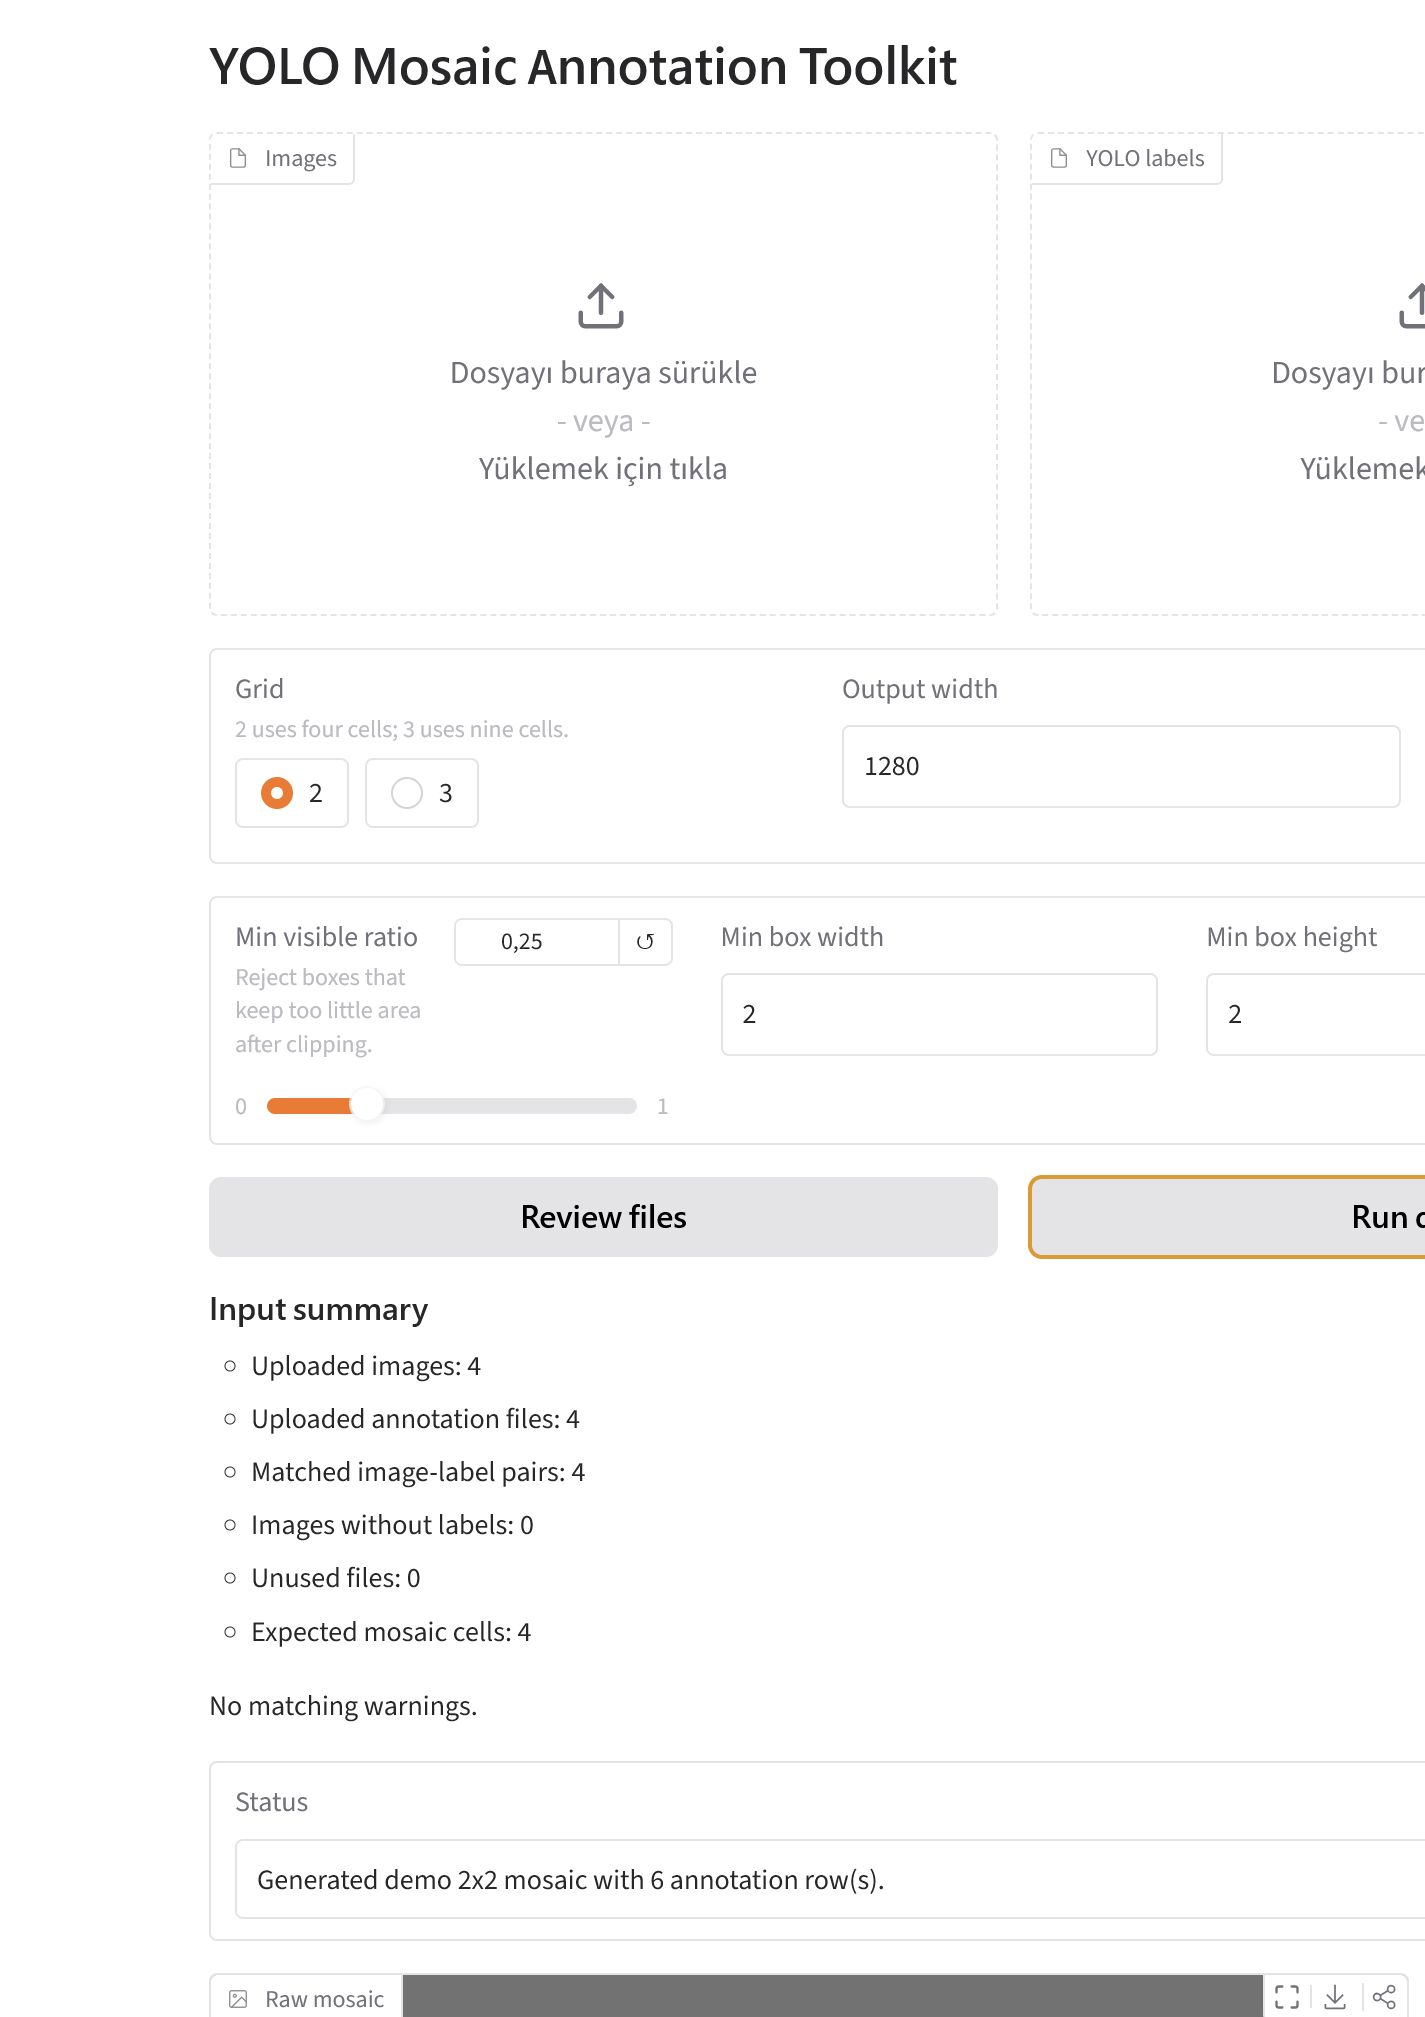
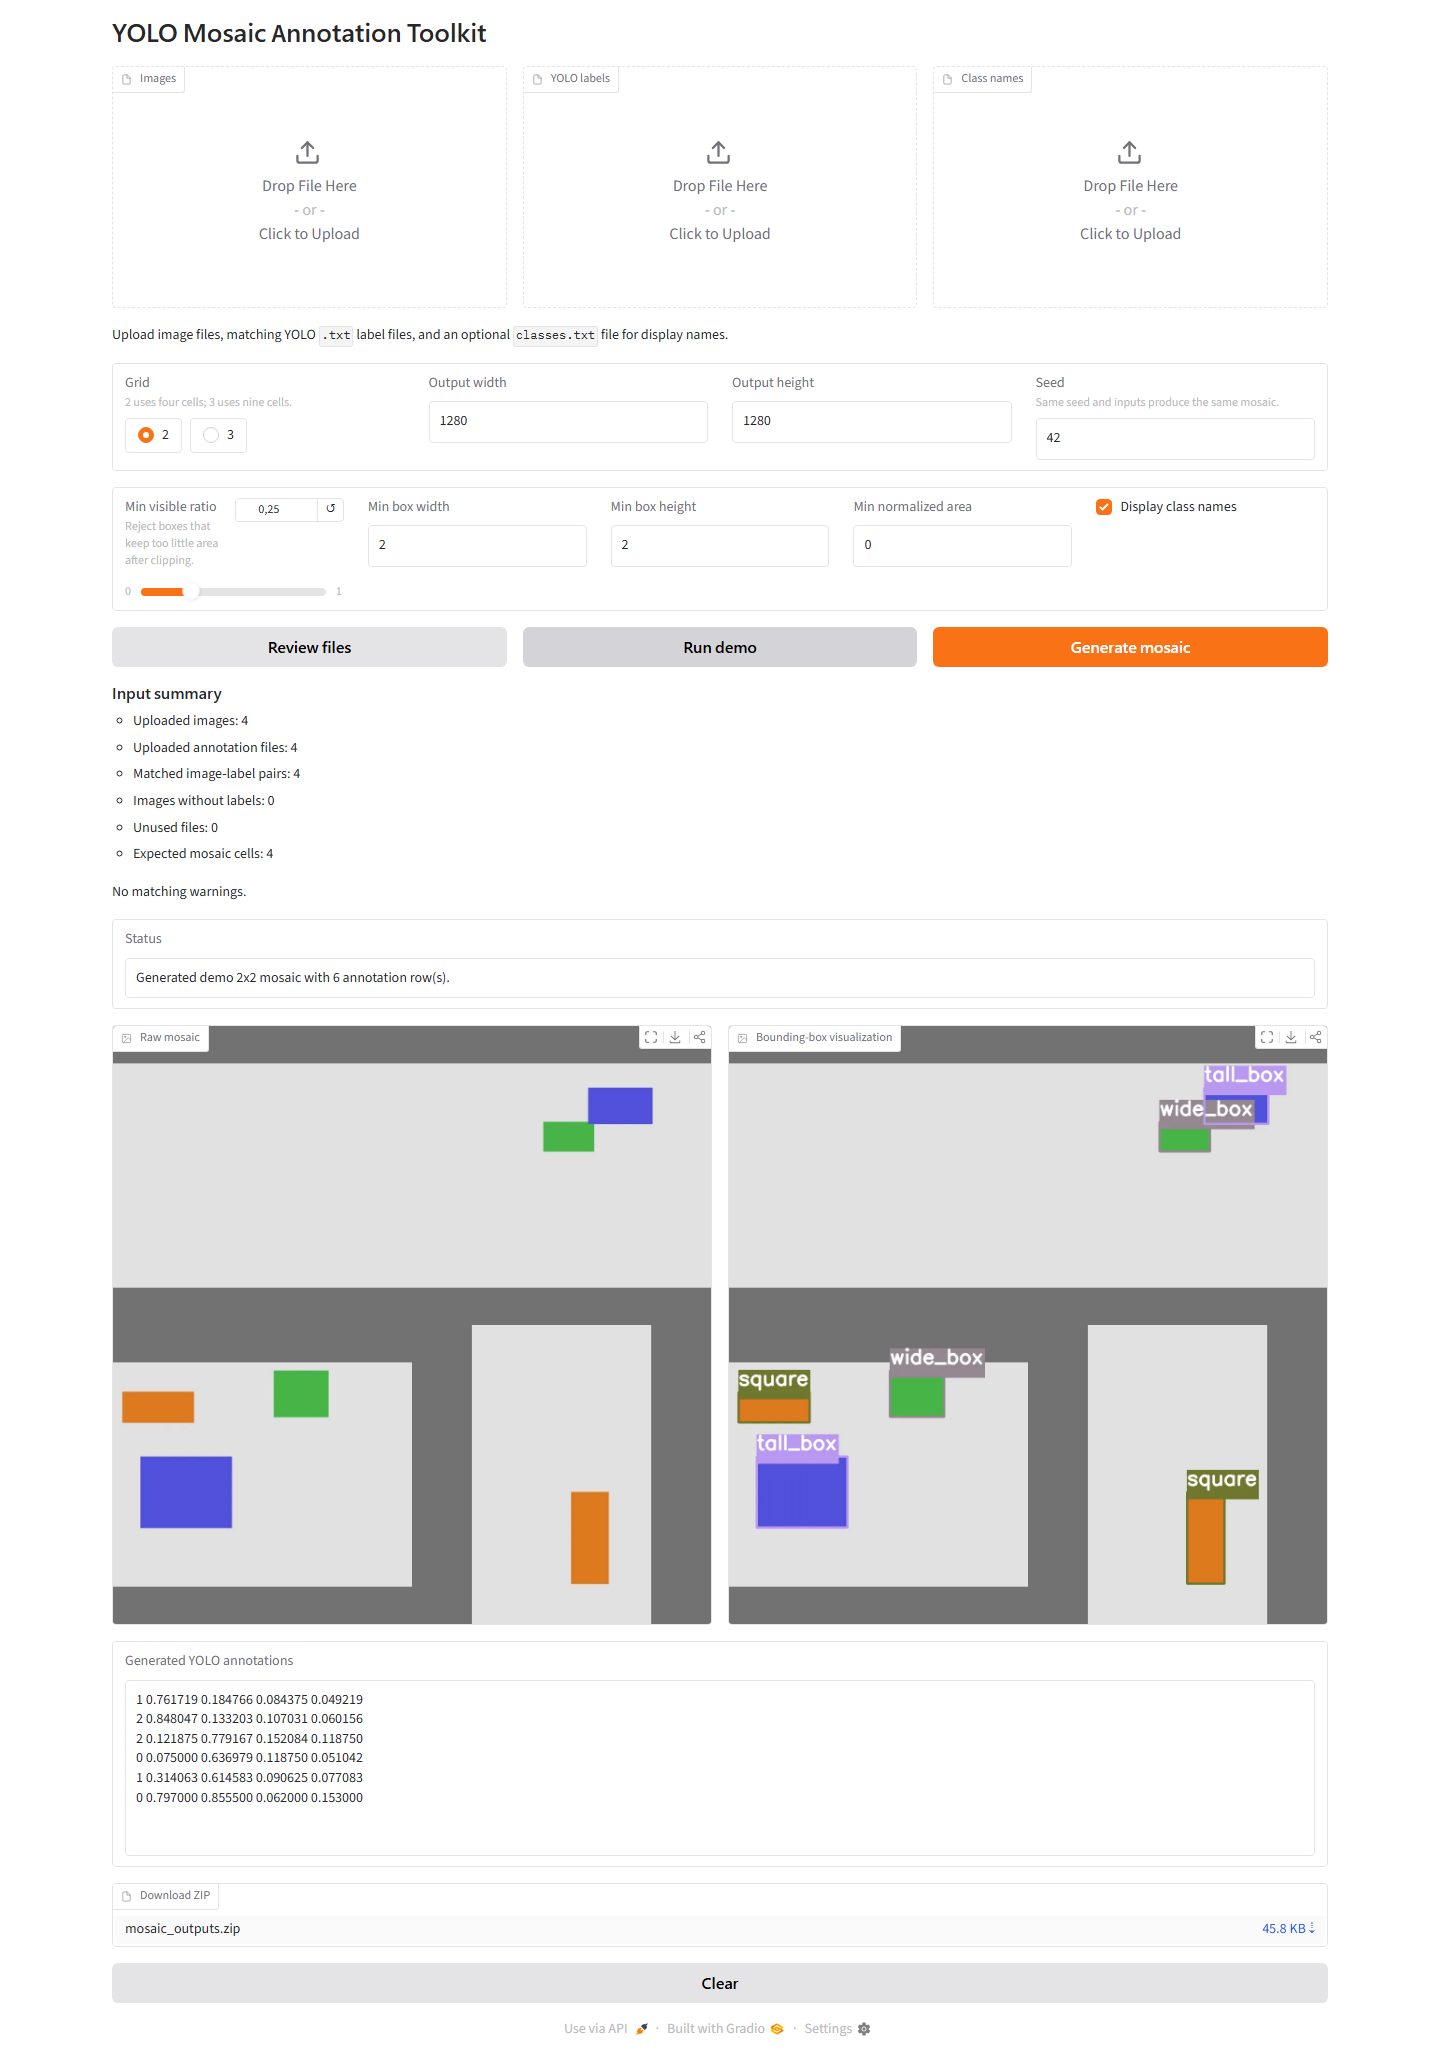
docs: polish README visuals and English UI screenshot

diff --git a/src/yolo_mosaic/web.py b/src/yolo_mosaic/web.py
@@ -184,6 +184,10 @@ def build_interface() -> gr.Blocks:
                 file_types=[".txt"],
                 label="Class names",
             )
+        gr.Markdown(
+            "Upload image files, matching YOLO `.txt` label files, and an optional "
+            "`classes.txt` file for display names."
+        )
         with gr.Row():
             grid = gr.Radio(
                 [2, 3],

diff --git a/README.md b/README.md
@@ -8,11 +8,20 @@ Generate deterministic 2x2 and 3x3 YOLO training mosaics with validated bounding
 
 ## Demo
 
-| 2x2 visualized mosaic | 3x3 visualized mosaic |
-| --- | --- |
-| ![2x2 visualized YOLO mosaic](docs/assets/mosaic-2x2-visualized.jpg) | ![3x3 visualized YOLO mosaic](docs/assets/mosaic-3x3-visualized.jpg) |
+<p align="center">
+  <img src="docs/assets/web-interface.png"
+       alt="YOLO Mosaic Annotation Toolkit Gradio interface showing upload controls, matching summary, status, and generated mosaic previews"
+       width="850">
+</p>
 
-![Gradio web interface](docs/assets/web-interface.png)
+<p align="center">
+  <img src="docs/assets/mosaic-2x2-visualized.jpg"
+       alt="Generated 2x2 YOLO mosaic with transformed bounding-box annotations"
+       width="390">
+  <img src="docs/assets/mosaic-3x3-visualized.jpg"
+       alt="Generated 3x3 YOLO mosaic with transformed bounding-box annotations"
+       width="390">
+</p>
 
 ## Key Features
 
@@ -186,6 +195,7 @@ Reproducible examples are documented in [docs/examples.md](docs/examples.md).
 
 - The implemented mosaic mode is deterministic equal-cell placement, not randomized YOLO-style mosaic center cropping.
 - COCO and Pascal VOC import/export are not included.
+- Gradio's built-in file upload dropzone text follows the viewer's browser locale; project-defined labels, help text, and portfolio screenshots are maintained in English.
 - Web exports use temporary files with a retention cleanup window; very long-lived download links can expire after cleanup.
 - Parallel workers are reserved for future scaling work.
 